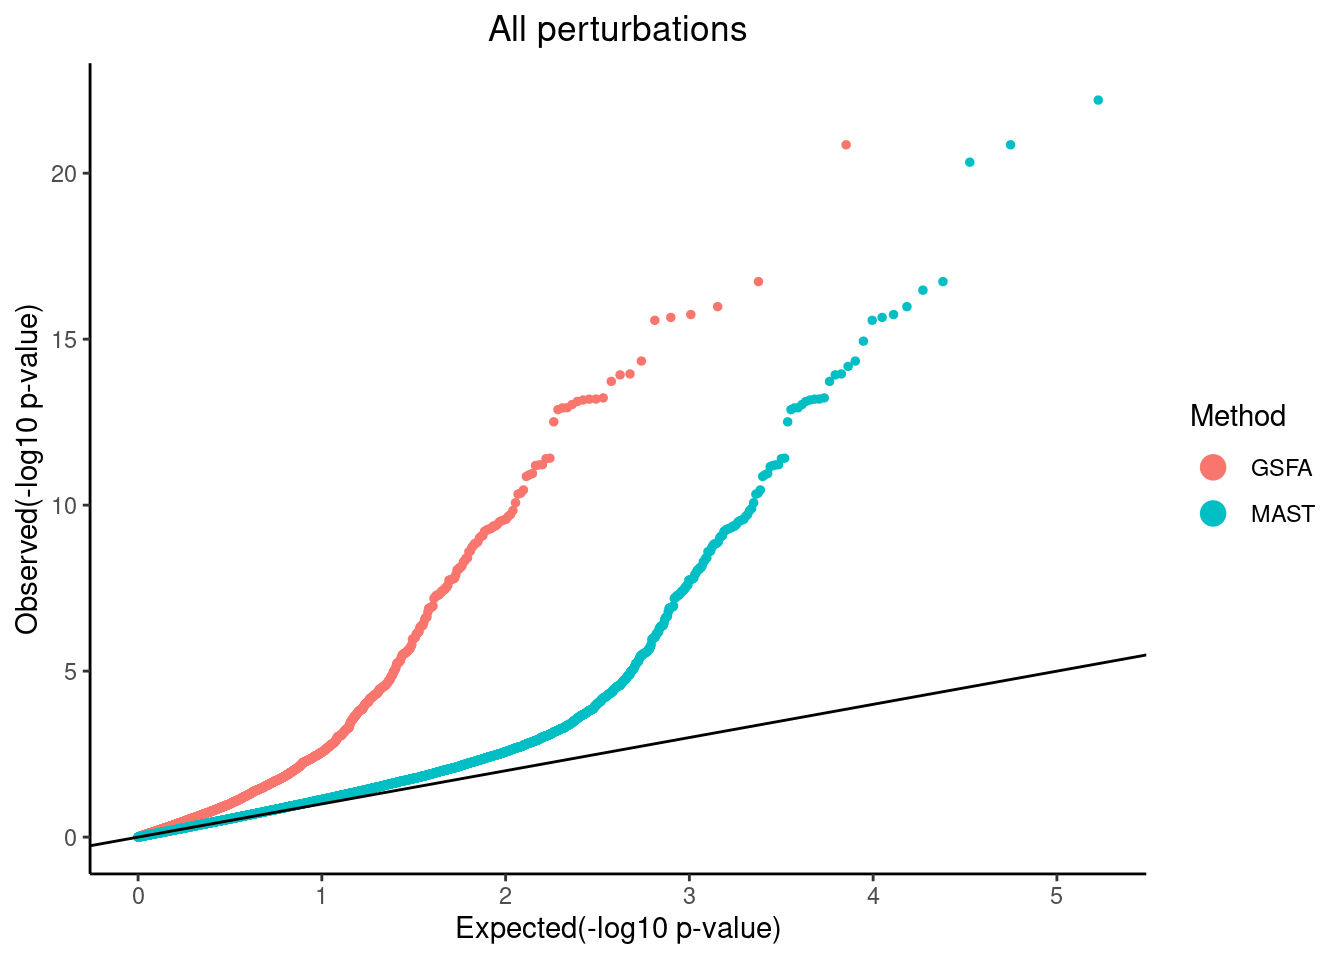
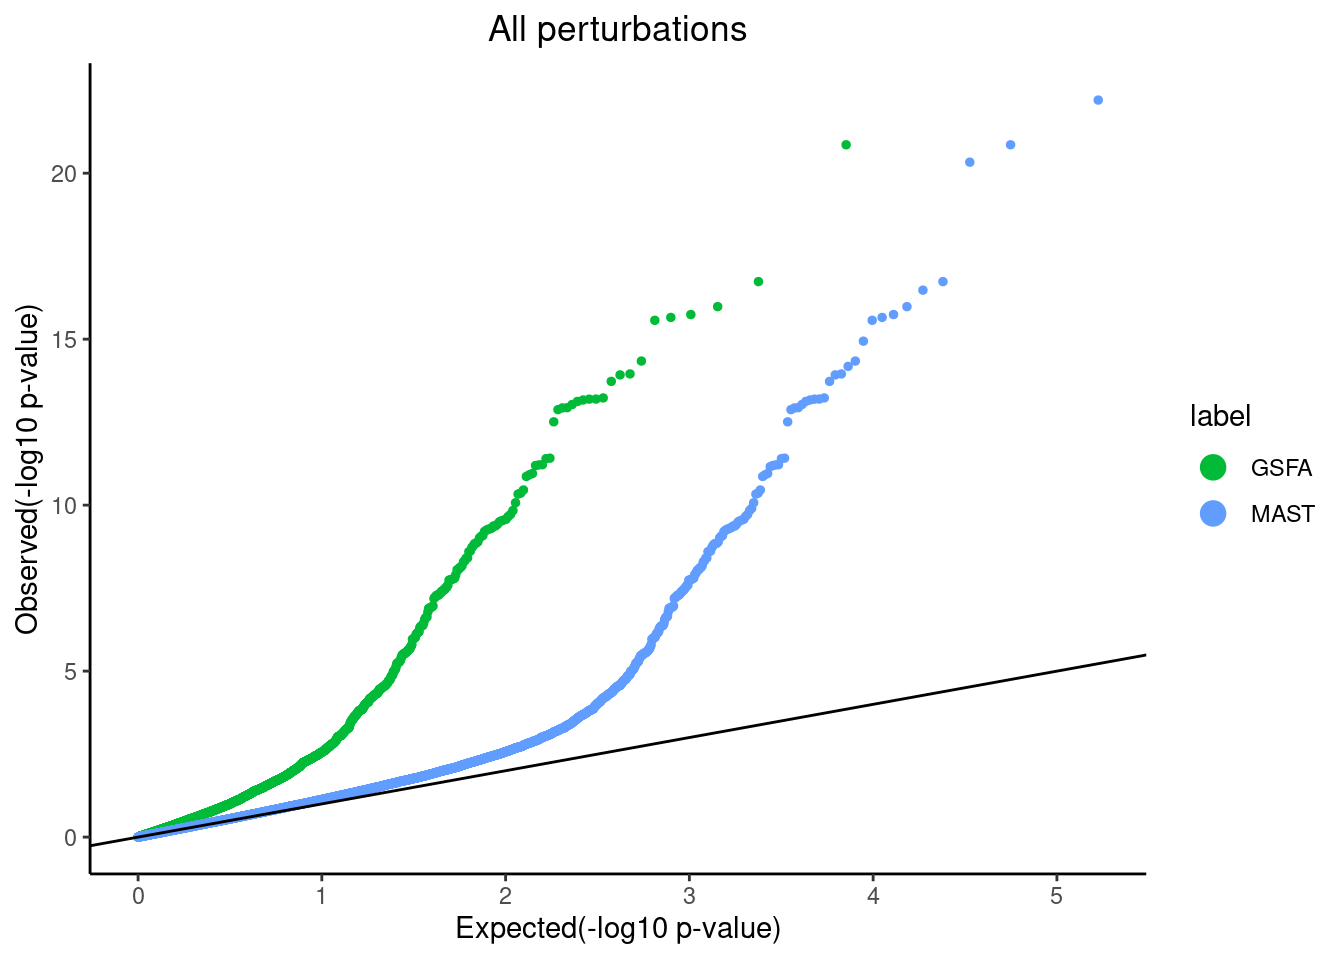
Build site.

diff --git a/docs/unguided_gsfa_LUHMES_data.html b/docs/unguided_gsfa_LUHMES_data.html
@@ -481,16 +481,16 @@ This reproducible <a href="https://rmarkdown.rstudio.com">R Markdown</a> analysi
 <div class="panel panel-default">
 <div class="panel-heading">
 <p class="panel-title">
-<a data-toggle="collapse" data-parent="#workflowr-checks" href="#strongRepositoryversionstrongahrefhttpsgithubcomkevinlkxGSFAanalysistree4834f30ed778591b968d97391cfe44f695e85535targetblank4834f30a"> <span class="glyphicon glyphicon-ok text-success" aria-hidden="true"></span> <strong>Repository version:</strong> <a href="https://github.com/kevinlkx/GSFA-analysis/tree/4834f30ed778591b968d97391cfe44f695e85535" target="_blank">4834f30</a> </a>
+<a data-toggle="collapse" data-parent="#workflowr-checks" href="#strongRepositoryversionstrongahrefhttpsgithubcomkevinlkxGSFAanalysistree659804b87afeecc633667ebf4c6bebec0ff8f784targetblank659804ba"> <span class="glyphicon glyphicon-ok text-success" aria-hidden="true"></span> <strong>Repository version:</strong> <a href="https://github.com/kevinlkx/GSFA-analysis/tree/659804b87afeecc633667ebf4c6bebec0ff8f784" target="_blank">659804b</a> </a>
 </p>
 </div>
[2 lines of base64/hex data omitted]
 <div class="panel-body">
 <p>
 Great! You are using Git for version control. Tracking code development and connecting the code version to the results is critical for reproducibility.
 </p>
 <p>
-The results in this page were generated with repository version <a href="https://github.com/kevinlkx/GSFA-analysis/tree/4834f30ed778591b968d97391cfe44f695e85535" target="_blank">4834f30</a>. See the <em>Past versions</em> tab to see a history of the changes made to the R Markdown and HTML files.
+The results in this page were generated with repository version <a href="https://github.com/kevinlkx/GSFA-analysis/tree/659804b87afeecc633667ebf4c6bebec0ff8f784" target="_blank">659804b</a>. See the <em>Past versions</em> tab to see a history of the changes made to the R Markdown and HTML files.
 </p>
 <p>
 Note that you need to be careful to ensure that all relevant files for the analysis have been committed to Git prior to generating the results (you can use <code>wflow_publish</code> or <code>wflow_git_commit</code>). workflowr only checks the R Markdown file, but you know if there are other scripts or data files that it depends on. Below is the status of the Git repository when the results were generated:
@@ -573,6 +573,40 @@ Message
 </tr>
 </thead>
 <tbody>
+<tr>
+<td>
+Rmd
+</td>
+<td>
+<a href="https://github.com/kevinlkx/GSFA-analysis/blob/659804b87afeecc633667ebf4c6bebec0ff8f784/analysis/unguided_gsfa_LUHMES_data.Rmd" target="_blank">659804b</a>
+</td>
+<td>
+kevinlkx
+</td>
+<td>
+2022-09-01
+</td>
+<td>
+updated QQplot colors
+</td>
+</tr>
+<tr>
+<td>
+html
+</td>
+<td>
+<a href="https://rawcdn.githack.com/kevinlkx/GSFA-analysis/472cbfa271cf37acd2f37d20be97329a18230a0f/docs/unguided_gsfa_LUHMES_data.html" target="_blank">472cbfa</a>
+</td>
+<td>
+kevinlkx
+</td>
+<td>
+2022-09-01
+</td>
+<td>
+Build site.
+</td>
+</tr>
 <tr>
 <td>
 Rmd
@@ -1508,8 +1542,46 @@ pvalue_list &lt;- list(&#39;GSFA&#39;=dplyr::filter(combined_mast_res,gsfa_gene=
 
 qqplot.pvalue(pvalue_list, pointSize = 1, legendSize = 4) + 
       ggtitle(&quot;All perturbations&quot;) + theme(plot.title = element_text(hjust = 0.5)) +
-      scale_colour_discrete(name=&quot;Method&quot;)</code></pre>
+      scale_colour_discrete(name=&quot;Method&quot;) + 
+      scale_color_manual(values=c(&quot;#00BA38&quot;,&quot;#619CFF&quot;))</code></pre>
 <p><img src="figure/unguided_gsfa_LUHMES_data.Rmd/qqplots-gsfa-mast-all-combined-1.png" width="672" style="display: block; margin: auto;" /></p>
+<p>
+<button type="button" class="btn btn-default btn-xs btn-workflowr btn-workflowr-fig" data-toggle="collapse" data-target="#fig-qqplots-gsfa-mast-all-combined-1">
+Past versions of qqplots-gsfa-mast-all-combined-1.png
+</button>
+</p>
+<div id="fig-qqplots-gsfa-mast-all-combined-1" class="collapse">
+<div class="table-responsive">
+<table class="table table-condensed table-hover">
+<thead>
+<tr>
+<th>
+Version
+</th>
+<th>
+Author
+</th>
+<th>
+Date
+</th>
+</tr>
+</thead>
+<tbody>
+<tr>
+<td>
+<a href="https://github.com/kevinlkx/GSFA-analysis/blob/472cbfa271cf37acd2f37d20be97329a18230a0f/docs/figure/unguided_gsfa_LUHMES_data.Rmd/qqplots-gsfa-mast-all-combined-1.png" target="_blank">472cbfa</a>
+</td>
+<td>
+kevinlkx
+</td>
+<td>
+2022-09-01
+</td>
+</tr>
+</tbody>
+</table>
+</div>
+</div>
 <br>
 <p>
 <button type="button" class="btn btn-default btn-workflowr btn-workflowr-sessioninfo" data-toggle="collapse" data-target="#workflowr-sessioninfo" style="display: block;">
